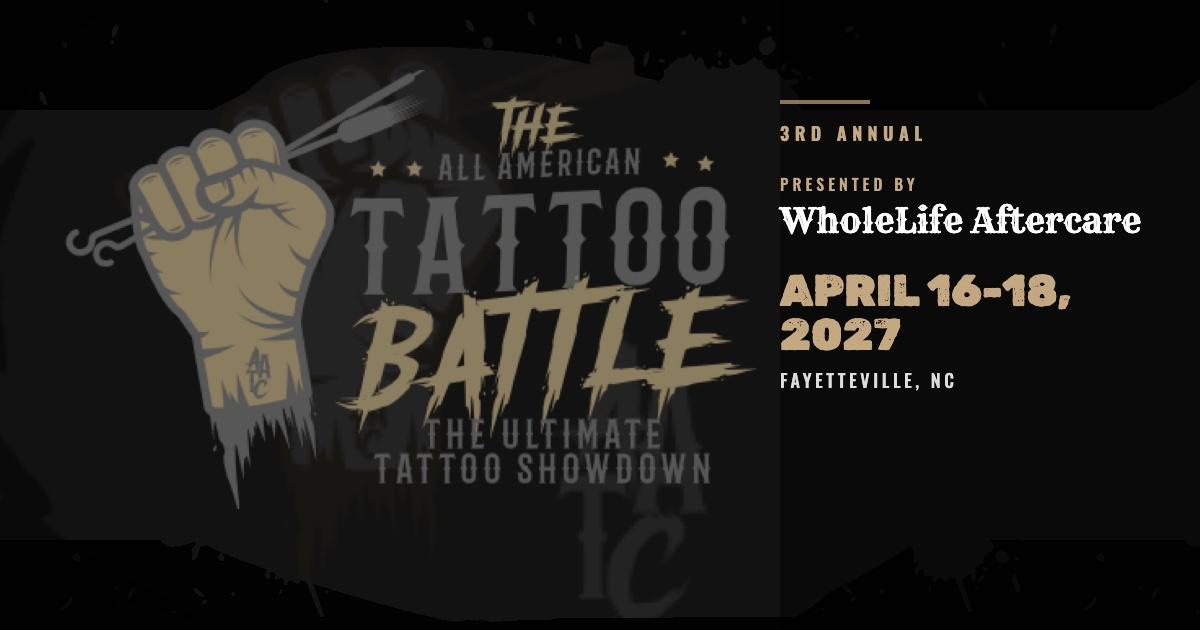
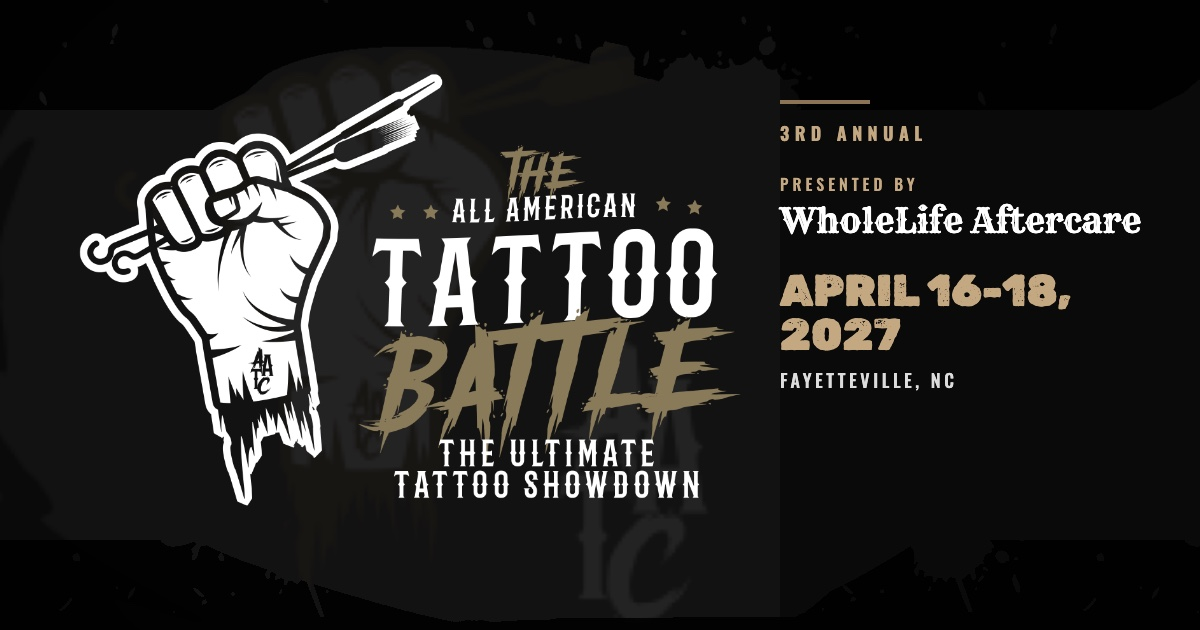
design(battle): white-and-gold lockup on the dark page and share card
Ryan's file (Downloads/tattoo-battle-logo-full.png, 1100x690, transparent)
kept as lockup-full-dark.png beside the generated charcoal cut, which the
asset script still produces but nothing renders.

Changed region(s): [[0.0308, 0.0905, 0.6167, 0.8143]]

diff --git a/src/app/tattoo-battle/page.tsx b/src/app/tattoo-battle/page.tsx
@@ -80,7 +80,9 @@ export default async function TattooBattlePage() {
         <div aria-hidden="true" className="pointer-events-none absolute inset-x-0 top-0 h-20 bg-repeat-x opacity-70"
              style={{ backgroundImage: 'url(/images/tattoo-battle/splatter-top.png)', backgroundSize: 'auto 100%' }} />
         <div className="relative mx-auto max-w-3xl">
-          <Image src="/images/tattoo-battle/lockup-full.png" alt="" aria-hidden="true" width={1100} height={690} priority
+          {/* White-and-gold lockup for the dark background, supplied by Ryan
+              2026-09-24 (the charcoal cut from the vector master read too dark). */}
+          <Image src="/images/tattoo-battle/lockup-full-dark.png" alt="" aria-hidden="true" width={1100} height={690} priority
                  className="mx-auto h-auto w-full max-w-xl" />
           <h1 className="sr-only">{HERO.title}</h1>
           <p className="mt-2 font-battle-condensed text-xs font-bold uppercase tracking-[0.3em] sm:text-sm" style={{ color: '#C4A882' }}>

diff --git a/scripts/og/tattoo-battle-og.html b/scripts/og/tattoo-battle-og.html
@@ -30,7 +30,7 @@
 <div class="card">
   <div class="flag"></div>
   <div class="splat-top"></div>
-  <img class="lockup" src="../../public/images/tattoo-battle/lockup-full.png" alt="">
+  <img class="lockup" src="../../public/images/tattoo-battle/lockup-full-dark.png" alt="">
   <div class="gold-rule"></div>
   <div class="right">
     <div class="kicker">3rd Annual</div>
